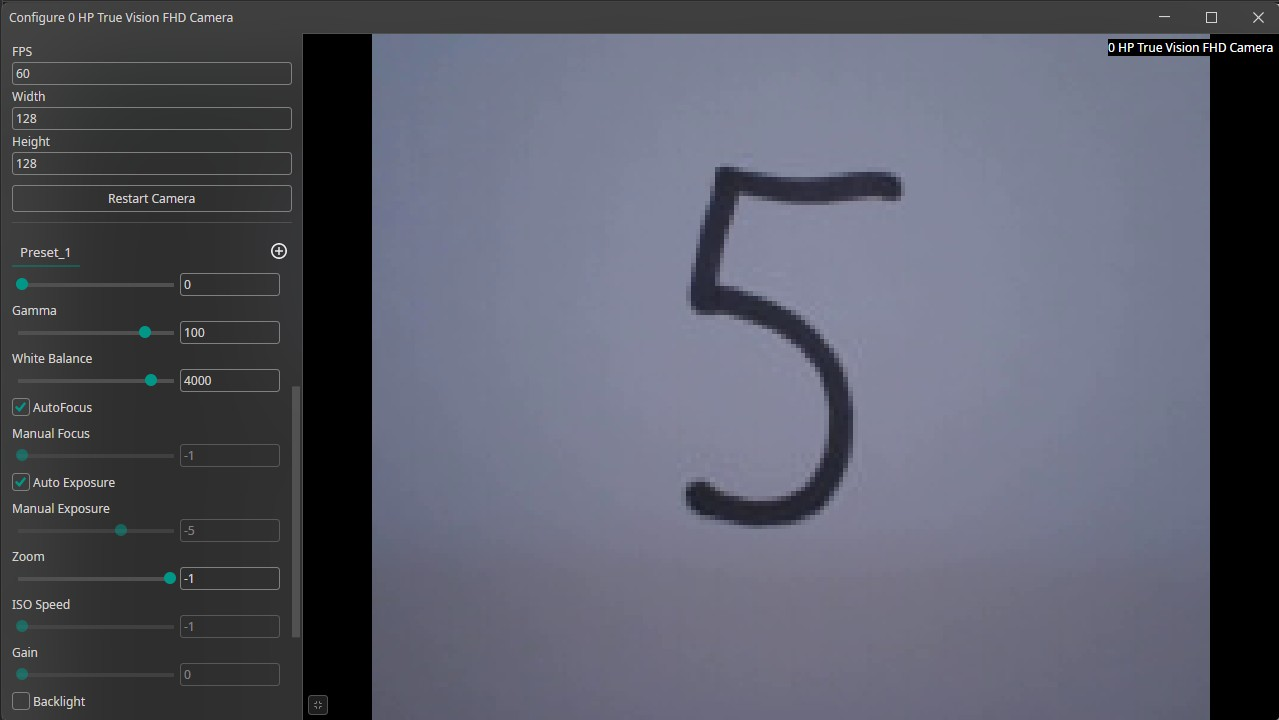
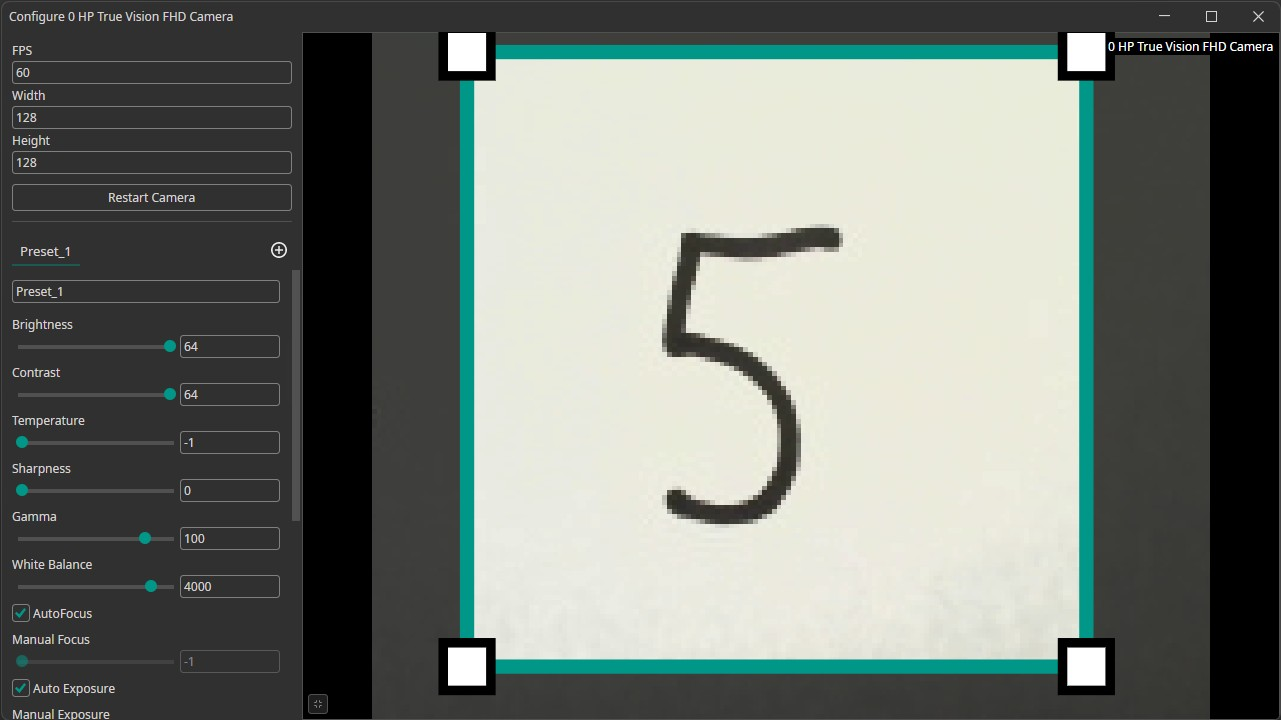
Updates handwritten digits demo

diff --git a/docs/one-ai/03-handwritten-digits-demo.md b/docs/one-ai/03-handwritten-digits-demo.md
@@ -40,7 +40,7 @@ In addition to those filters, we use the following augmentations:
 - **Rotate Augmentation**: Since numbers have a clearly defined up direction, we need a lot less rotation than in the potato chip demo. We still want to have some robustness against rotations, so we set the **rotation** range to **±20°**.
 - **Flip Augmentation**: We **turn off the flip augmentation**, since we aren't going to encounter mirrored numbers in our application.
 - **Resize Augmentation**: Since the goal of this demo is to run the model on a webcam, our model needs to be quite robust against size variations. This is especially true for numbers that are smaller than those in the training data, because the numbers in the webcam images are likely to be smaller as well. We thus set the size augmentation from **40% to 125%** in both dimensions.
-- **Color Augmentation**: To make the model more robust against lighting variations, we add a color augmentation. We set the **brightness** to **(-30, 30)**, the **contrast** to **(80, 120)** and leave the **saturation** and **hue** at their **default values**.
+- **Color Augmentation**: To make the model more robust against lighting variations, we add a color augmentation. We set the **brightness** to **(-30, 30)**, the **contrast** to **(80, 120)** and leave the **saturation**, **hue** and **gamma** at their **default values**.
 - **Frequency Augmentation**: We add a frequency augmentation, to simulate images that are out of focus. Thus, we only use a **Low Pass Filter** and set its **sigma** values to **(0, 1.5)**.
 - **Noise Augmentation**: Finally, we add a noise augmentation to increase the robustness against camera noise. This is especially useful for this dataset, because it adds some variation to the otherwise smooth background. We set the values to **(0, 10)**.
 
@@ -79,7 +79,9 @@ The last check box allows us to select whether we want to export the last or the
 ![model_export](/img/ai/one_ai_plugin/demos/handwritten-digits/nist_sd19_export.jpg)
 
 ## Testing the Model
-Now it's time to test our trained model. To do so, we go back to the **Dataset** tab. In the top-right corner, we open the **Camera Tool**. Select your camera in the drop-down menu, then click on the plus icon to add it. Next, you need to change the camera's resolution by clicking on the gear icon and setting the **Width** and **Height** to **128** to match the resolution of our images. If your camera doesn't support a resolution of 128x128, you can also select 640x480 and crop in the preview to a 20% x 27% image, so it gets about 128x128. We also recommend turning on **Auto Exposure** further down in the settings and try to increase brightness and contrast, so the paper is bright and the text on the paper is dark.
+Now it's time to test our trained model. To do so, we go back to the **Dataset** tab and open the **Camera Tool** in the top-right corner. Select your camera in the drop-down menu, then click on the plus icon to add it. Next, we need to change the camera's resolution by clicking on the gear icon and setting the **Width** and **Height** to **128** to match the resolution of our images. Please check whether your camera actually supports a resolution of 128x128. You can do so by going to the **Capture** tab of the **Camera Tool** and recording an image by pressing the camera button followed by the save button. This saves the current camera image to ``[selected_name]/Dataset/Train``. You can check its size by opening it with the Windows App **Photo**, which shows the size on the bottom-left. If it is larger than 128x128, you can draw a region onto the camera preview in the camera settings to crop it. It doesn't matter if the cropped region is slightly larger than 128x128, as long as it's not smaller, because that would introduce a black padding.
+
+We can improve the classification accuracy by going to the camera settings and turning the **Brightness** and **Contrast** to their maximum. This results in the paper showing up in a bright white with a deep black number. For some cameras it is important to turn on **Auto Exposure** further down in the settings, because the image would be underexposed otherwise.
 
 ![camera_settings](/img/ai/one_ai_plugin/demos/handwritten-digits/nist_sd19_camera_settings.jpg)
 
